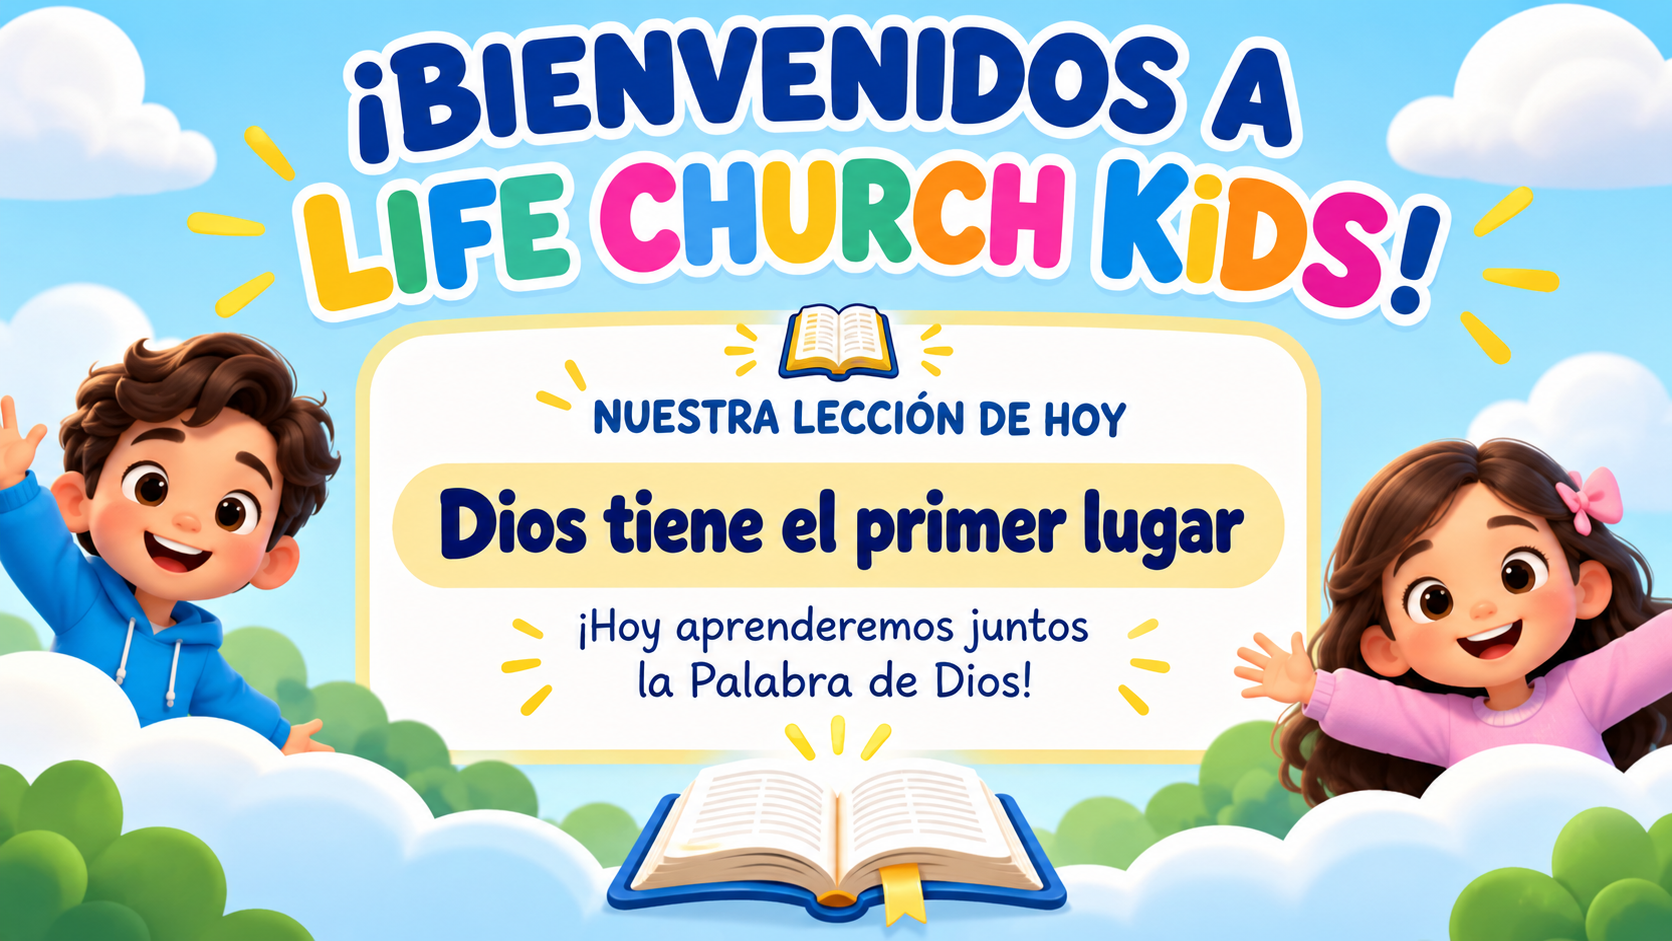
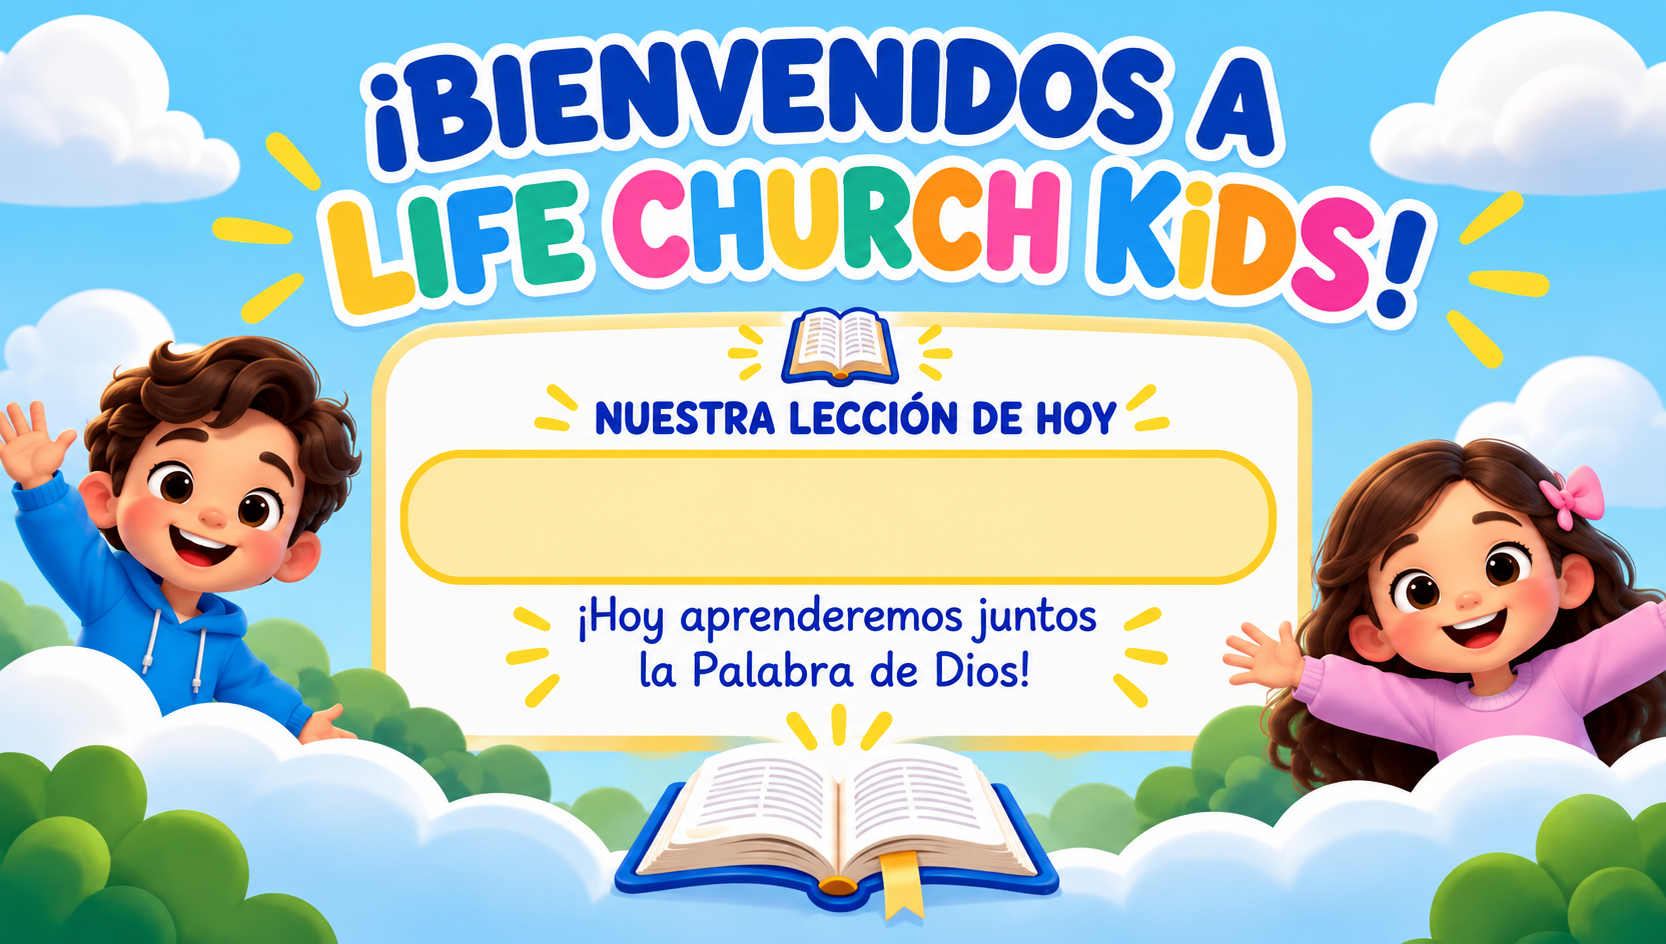
Actualizar bienvenida con título automático

diff --git a/src/Presentation.jsx b/src/Presentation.jsx
@@ -165,16 +165,7 @@ const partesHistoria = dividirHistoria(lesson.bibleStory);
         boxSizing: "border-box",
       }}
     >
-      <h1
-        style={{
-          fontSize: "clamp(28px, 4vw, 48px)",
-lineHeight: 1.3,
-overflowWrap: "anywhere",
-marginBottom: "30px",
-        }}
-      >
-        {lesson.title}
-      </h1>
+      
 
       <h2
         style={{
@@ -262,21 +253,53 @@ marginBottom: "30px",
 
 
 )}
-  {currentSlide.imagen && !currentSlide.imprimir && !currentSlide.title.includes("Historia bíblica") && (
-  <img
-    src={currentSlide.imagen}
-    alt="Bienvenidos a Life Church Kids"
-    style={{
-      width: "100%",
-      maxWidth: "900px",
-      maxHeight: "55vh",
-      objectFit: "contain",
-      borderRadius: "20px",
-      margin: "15px auto",
-      display: "block",
-    }}
-  />
-)}
+  {currentSlide.imagen &&
+  !currentSlide.imprimir &&
+  !currentSlide.title.includes("Historia bíblica") && (
+    <div
+      style={{
+        position: "relative",
+        width: "100%",
+        maxWidth: "900px",
+        margin: "15px auto",
+      }}
+    >
+      <img
+        src={currentSlide.imagen}
+        alt="Bienvenidos a Life Church Kids"
+        style={{
+          width: "100%",
+          display: "block",
+          borderRadius: "20px",
+        }}
+      />
+
+      {slideIndex === 0 && (
+        <div
+          style={{
+            position: "absolute",
+            top: "54%",
+            left: "50%",
+            transform: "translate(-50%, -50%)",
+            width: "50%",
+            textAlign: "center",
+            fontSize: "clamp(14px, 2vw, 24px)",
+            fontWeight: "bold",
+            color: "#173b8c",
+            lineHeight: 1.1,
+            overflowWrap: "break-word",
+          }}
+        >
+          {lesson.title.replace(
+  /\s+(?=(?:Génesis|Éxodo|Levítico|Números|Deuteronomio|Josué|Jueces|Rut|Samuel|Reyes|Crónicas|Esdras|Nehemías|Ester|Job|Salmos|Proverbios|Eclesiastés|Isaías|Jeremías|Ezequiel|Daniel|Mateo|Marcos|Lucas|Juan|Hechos|Romanos|Corintios|Gálatas|Efesios|Filipenses|Colosenses|Timoteo|Hebreos|Santiago|Pedro|Apocalipsis)\s+\d)/i,
+  "\n"
+).split("\n").map((parte, index) => (
+  <div key={index}>{parte}</div>
+))}
+        </div>
+      )}
+    </div>
+  )}
 
       
       {currentSlide.imprimir &&110
